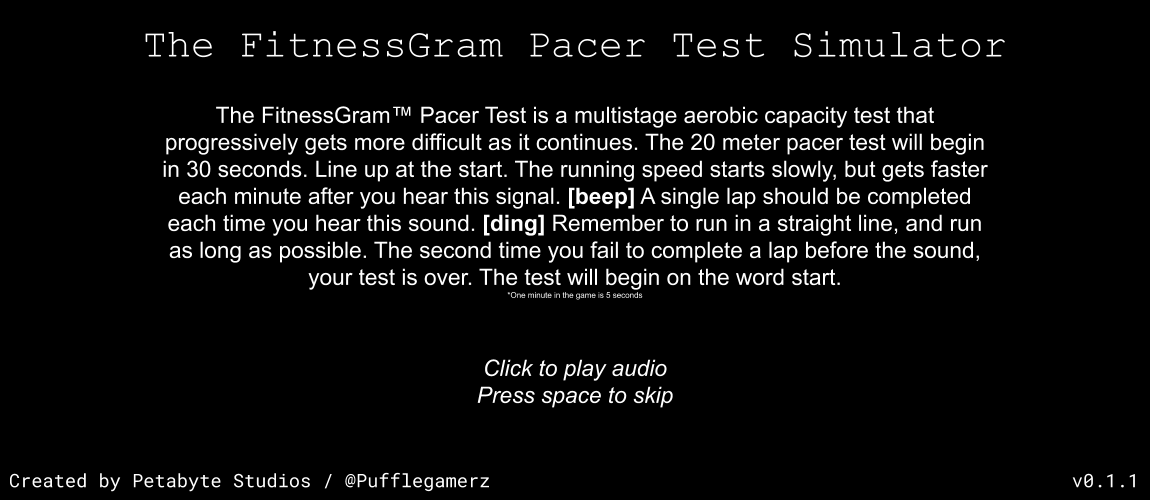
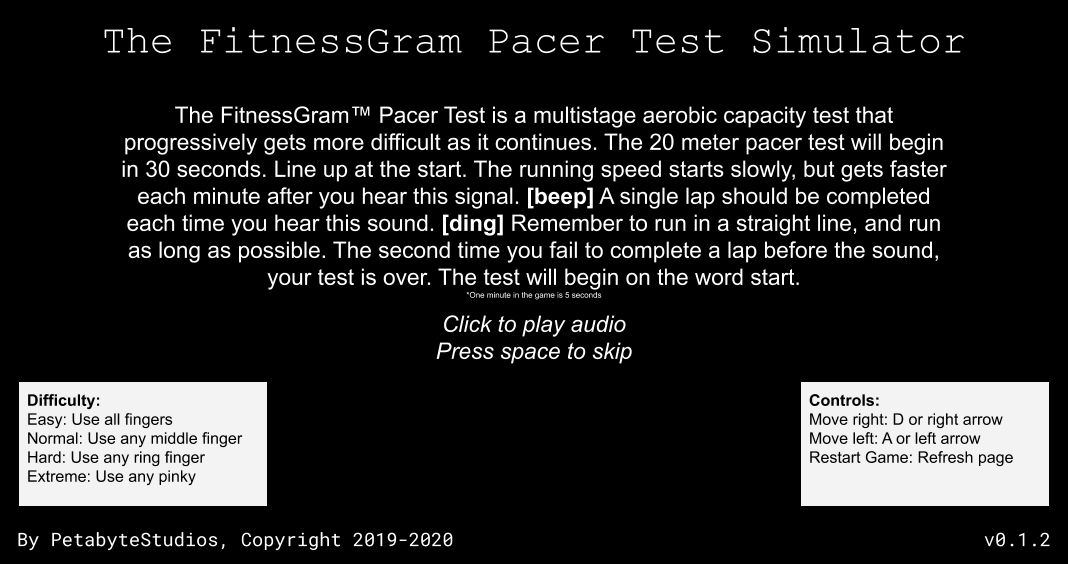
Maintanance update. Added fullscreen fixed error message removed excess html made sounds load with page

diff --git a/javascript.js b/javascript.js
@@ -1,7 +1,6 @@
 var canvas = document.getElementById('canvas');
 var c = canvas.getContext("2d");
 var interacted = false; // If user has interacted with DOM
-var audio; // Global audio
 
 var move = {
 	alreadyPressed: false
@@ -20,119 +19,139 @@ var test = {
 	over: false,
 	start: false,
 	began: false,
-	difficulty: 0, // This is the difficulty loop, as a function
+	difficulty: null, // This is the difficulty loop, as a function
 	buttonDelay: false // Button is done after ding
 }
 
+
+var audio;
 window.onload = function() {
+	// Load audio
+	audio = {
+		"intro": new Audio("assets/introduction.mp3"),
+		"sun": new Audio("assets/Sunrise_Drive.mp3"),
+		"speedup": new Audio("assets/speedup.mp3"),
+		"lap": new Audio("assets/lap.mp3"),
+		"start": new Audio("assets/start.mp3")
+	}
+
+	// Resize canvas
+	canvas.width = window.innerWidth;
+	canvas.height = window.innerHeight;
+
+	// Draw intro message
+	c.fillStyle = "black";
+	c.fillRect(0, 0, canvas.width, canvas.height);
+	c.drawImage(
+		img("start"),
+		(canvas.width - img("start").width) / 2,
+		(canvas.height - img("start").height) / 2,
+		img("start").width,
+		img("start").height
+	);
+
 	var a = setInterval(function() {
 		if (interacted) {
 			if (!test.began) {
-				play("introduction.mp3");
+				play("intro");
 			}
 			clearInterval(a);
 		}
-	}, 1)
+	}, 1);
 }
 
-// Main game loop
-setInterval(function() {
-	c.clearRect(0, 0, canvas.width, canvas.height);
+function beginRender() {
+	// Main game loop
+	setInterval(function() {
+		c.clearRect(0, 0, canvas.width, canvas.height);
 
-	// Ground level of room
-	var ground = canvas.height / 2 + 100; // Ground level
+		// Ground level of room
+		var ground = canvas.height / 2 + 100; // Ground level
 
-	// Draw gym floor
-	c.fillStyle = "chocolate";
-	c.fillRect(0, ground, canvas.width, canvas.height);
-	c.fillStyle = "sienna";
-	c.fillRect(0, ground, canvas.width, 25);
-	c.fillStyle = "LightSkyBlue";
-	c.fillRect(0, 0, canvas.width, ground);
+		// Draw gym floor
+		c.fillStyle = "chocolate";
+		c.fillRect(0, ground, canvas.width, canvas.height);
+		c.fillStyle = "sienna";
+		c.fillRect(0, ground, canvas.width, 25);
+		c.fillStyle = "LightSkyBlue";
+		c.fillRect(0, 0, canvas.width, ground);
 
-	// Draw player
-	c.fillStyle = "red";
-	if (player.frame == 1) {
-		player.frame = 2;
-		c.drawImage(person("person1"), player.x, ground - 84, 66, 84);
-	} else if (player.frame == 2) {
-		c.drawImage(person("person2"), player.x, ground - 84, 66, 84);
-		player.frame = 1;
-	} else {
-		c.drawImage(person("person"), player.x, ground - 84, 66, 84);
-	}
-
-
-	// Draw Markers
-	c.fillStyle = "blue";
-	c.fillRect(100, ground, 10, 50);
-	c.fillRect(canvas.width - 100, ground, 10, 50);
-
-	// If go, then light up thing
-	if (test.start) {
-		c.fillStyle = "green";
-		
-		if (!test.buttonDelay) {
-			setTimeout(function() {
-				test.buttonDelay = true;
-				test.start = false;
-			}, 100);
+		// Draw player
+		c.fillStyle = "red";
+		if (player.frame == 1) {
+			player.frame = 2;
+			c.drawImage(person("person1"), player.x, ground - 84, 66, 84);
+		} else if (player.frame == 2) {
+			c.drawImage(person("person2"), player.x, ground - 84, 66, 84);
+			player.frame = 1;
+		} else {
+			c.drawImage(person("person"), player.x, ground - 84, 66, 84);
 		}
-	} else {
-		test.buttonDelay = false;
-		c.fillStyle = "lightgreen";
-	}
 
-	// Draw button things
-	c.fillRect(10, canvas.height - 70, 130, 60);
-	c.fillStyle = "black";
-	c.font = "30px Arial";
-	c.fillText("Go!", 52, canvas.height - 30);
 
-	// Draw Game over screen
-	if (test.over) {
-		// Draw main box
-		c.fillStyle = "white";
-		c.fillRect(canvas.width / 2 - 150, canvas.height / 2 - 150, 300, 300);
+		// Draw Markers
+		c.fillStyle = "blue";
+		c.fillRect(100, ground, 10, 50);
+		c.fillRect(canvas.width - 100, ground, 10, 50);
 
-		// Draw border
-		c.lineWidth = "5"
-		c.strokeRect(canvas.width / 2 - 150, canvas.height / 2 - 150, 300, 300);
+		// If go, then light up thing
+		if (test.start) {
+			c.fillStyle = "green";
 
+			if (!test.buttonDelay) {
+				setTimeout(function() {
+					test.buttonDelay = true;
+					test.start = false;
+				}, 100);
+			}
+		} else {
+			test.buttonDelay = false;
+			c.fillStyle = "lightgreen";
+		}
+
+		// Draw button things
+		c.fillRect(10, canvas.height - 70, 130, 60);
+		c.fillStyle = "black";
 		c.font = "30px Arial";
-		c.fillStyle = "black";
-		c.fillText("You lost!", canvas.width / 2 - 50, canvas.height / 2 - 100);
-		c.font = "20px Arial";
-		var grade = (60 + test.round);
-		c.fillText("You got to round " + test.round + "! (" + grade + "%)", canvas.width / 2 - 100, canvas.height / 2 - 50);
-		c.font = "20px Arial";
+		c.fillText("Go!", 52, canvas.height - 30);
 
-		var ending = "";
-		if (grade > 110) {
-			ending = "You are a legend";
-		} else if (grade > 100) {
-			ending = "Not bad";
-		} else if (grade > 90) {
-			ending = "Is that really the best you can do?";
-		} else if (grade > 80) {
-			ending = "Did you even try?";
-		} else if (grade > 70) {
-			ending = "I've seen rocks go faster than that.";
-		} else if (grade > 70) {
-			ending = "You didn't even try. How pathetic.";
+		// Draw Game over screen
+		if (test.over) {
+			// Draw main box
+			c.fillStyle = "white";
+			c.fillRect(canvas.width / 2 - 250, canvas.height / 2 - 250, 500, 500);
+
+			// Draw border
+			c.lineWidth = "5"
+			c.strokeRect(canvas.width / 2 - 250, canvas.height / 2 - 250, 500, 500);
+
+			c.font = "30px Arial";
+			c.fillStyle = "black";
+			c.fillText("You lost!", canvas.width / 2 - 50, canvas.height / 2 - 100);
+			c.font = "20px Arial";
+			var grade = (60 + test.round);
+			c.fillText("You got to round " + test.round + "! (" + grade + "%)", canvas.width / 2 - 100, canvas.height / 2 - 50);
+			c.font = "20px Arial";
+
+			var ending = "";
+			if (grade > 110) {
+				ending = "- You are legend -";
+			} else if (grade > 100) {
+				ending = "Not bad..";
+			} else if (grade > 90) {
+				ending = "Is that really the best you can do?";
+			} else if (grade > 80) {
+				ending = "Did you even try?";
+			} else if (grade > 70) {
+				ending = "I've seen rocks go faster than that.";
+			} else {
+				ending = "You didn't even try. How pathetic.";
+			}
+
+			c.fillText(ending, (canvas.width / 2 - c.measureText(ending).width / 2), canvas.height / 2);
 		}
-
-		c.fillText(ending, canvas.width / 2 - 80, canvas.height / 2);
-	}
-
-	// Make black start screen
-	if (!test.began) {
-		c.fillStyle = "black";
-		c.fillRect(0, 0, canvas.width, canvas.height);
-
-		c.drawImage(img("start"), 0, 0)
-	}
-}, 1);
+	}, 1);
+}
 
 // Make moving harder by not letting the player hold the key down
 function key(event) {
@@ -140,10 +159,10 @@ function key(event) {
 	if (!move.alreadyPressed && test.began) {
 		move.alreadyPressed = true;
 
-		if (event.key == "d" || event.keyCode == 39) {
+		if (event.key == "d" || event.key == "ArrowRight") {
 			glidePlayer("forward");
 			player.direction = "right";
-		} else if (event.key == "a" || event.keyCode == 37) {
+		} else if (event.key == "a" || event.key == "ArrowLeft") {
 			player.direction = "left";
 			glidePlayer("back");
 		}
@@ -152,25 +171,26 @@ function key(event) {
 	// Allow the user to start
 	if (event.key == " ") {
 		test.began = true;
-		
-		// Stop intro
-		if (typeof audio !== "undefined") {
-			audio.pause();
-		}
 
-		play("start.mp3")
+		// Stop intro
+		stop("intro");
+
+		// Start the render background loop
+		beginRender();
+
+		play("start");
 		// 1 Second before start
 		setTimeout(function() {
 			startTest();
 
-			play("Sunrise_Drive.mp3"); // Background music
+			play("sun"); // Background music
 
 			// Progressively gets harder every 5 seconds
 			test.difficulty = setInterval(function() {
 				test.time -= .1;
-				play("speedup.mp3");
+				play("speedup");
 			}, 5000);
-		}, 3396)
+		}, 3396);
 	}
 }
 
@@ -233,7 +253,7 @@ function startTest() {
 			clearTimeout(test.difficulty); // Stop difficulty progressor
 		} else {
 			test.round++
-			play("lap.mp3");
+			play("lap");
 			startTest(); // Really just restarting the loop
 		}
 	}, test.time * 1000);
@@ -250,9 +270,11 @@ function img(name) {
 }
 
 // Function to play an audio file
-function play(src) {
-	audio = undefined;
-	audio = new Audio("assets/" + src);
-	audio.currentTime = 0;
-	audio.play();
+function play(name) {
+	audio[name].currentTime = 0;
+	audio[name].play();
+}
+
+function stop(name) {
+	audio[name].pause();
 }

diff --git a/index.html b/index.html
@@ -7,37 +7,35 @@
 			width: 100%;
 			height: 100%;
 			margin: 0;
+			overflow: hidden;
 		}
 		canvas {
-			width: 1150px;
-			height: 500px;
+			border: transparent;
+			width: 100%;
+			height: 100%;
 		}
 		#images {
 			display: none;
 			visibility: hidden;
 		}
 	</style>
+	<meta charset="utf-8">
 </head>
 <body onkeydown="key(event)" onkeyup="move.alreadyPressed = false" onclick="interacted = true">
-<center>
-	<canvas id="canvas" width="1150" height="500">
+	<canvas id="canvas">
 		Your browser does not support canvas. :(
 	</canvas>
-	<img src="assets/instructions.png">
-	<br>
-	<span>Copyright 2019 Petabyte Studios. Licensed under GNU License v3.0. <a href="https://github.com/pufflegamerz/TheFitnessGramPacerTestSimulator">Github Link</a></span>
-</center>
-<div id="images">
-	<img src="assets/person-right.png" id="person-right">
-	<img src="assets/person1-right.png" id="person1-right">
-	<img src="assets/person2-right.png" id="person2-right">
+	<div id="images">
+		<img src="assets/person-right.png" id="person-right">
+		<img src="assets/person1-right.png" id="person1-right">
+		<img src="assets/person2-right.png" id="person2-right">
 
-	<img src="assets/person-left.png" id="person-left">
-	<img src="assets/person1-left.png" id="person1-left">
-	<img src="assets/person2-left.png" id="person2-left">
+		<img src="assets/person-left.png" id="person-left">
+		<img src="assets/person1-left.png" id="person1-left">
+		<img src="assets/person2-left.png" id="person2-left">
 
-	<img src="assets/start.png" id="start">
-</div>
+		<img src="assets/start.png" id="start">
+	</div>
 </body>
 <script type="text/javascript" src="javascript.js"></script>
 </html>
